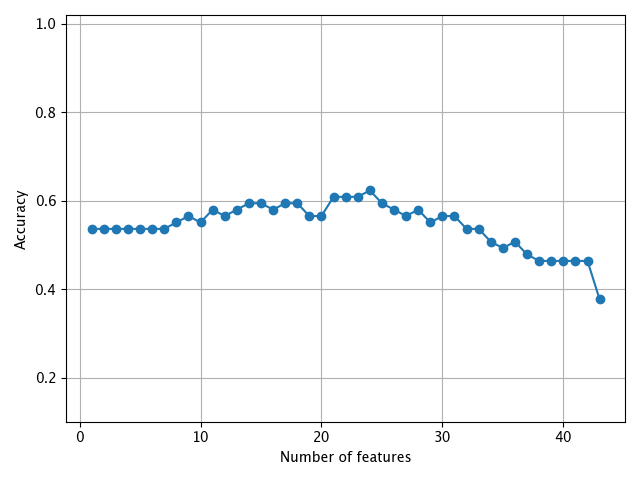
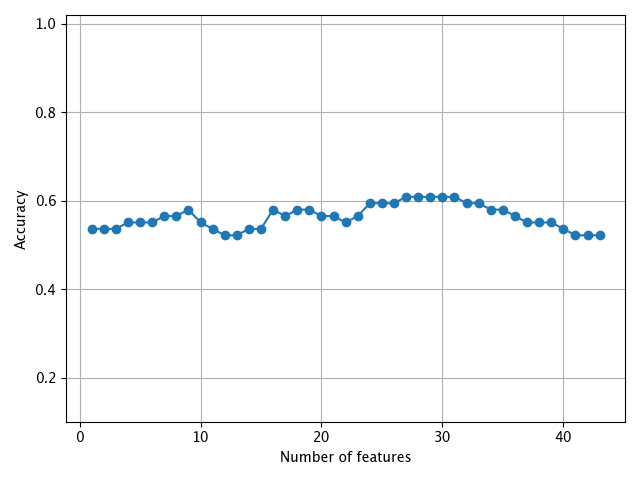
used svm model for sbs

Changed region(s): [[0.1875, 0.375, 0.9688, 0.625]]

diff --git a/sbs.py b/sbs.py
@@ -116,7 +116,8 @@ class SBS():
         score = self.scoring(y_test, y_pred)
         return score
 
-svm = SVC(C=1, kernel='linear')
+#(Sam) I used SVM for the estimator because I am working on the SVM implementation, but I recommend using your type of model before running this
+svm = SVC(C=10, kernel='rbf', gamma=.1)
 
 # selecting features
 
